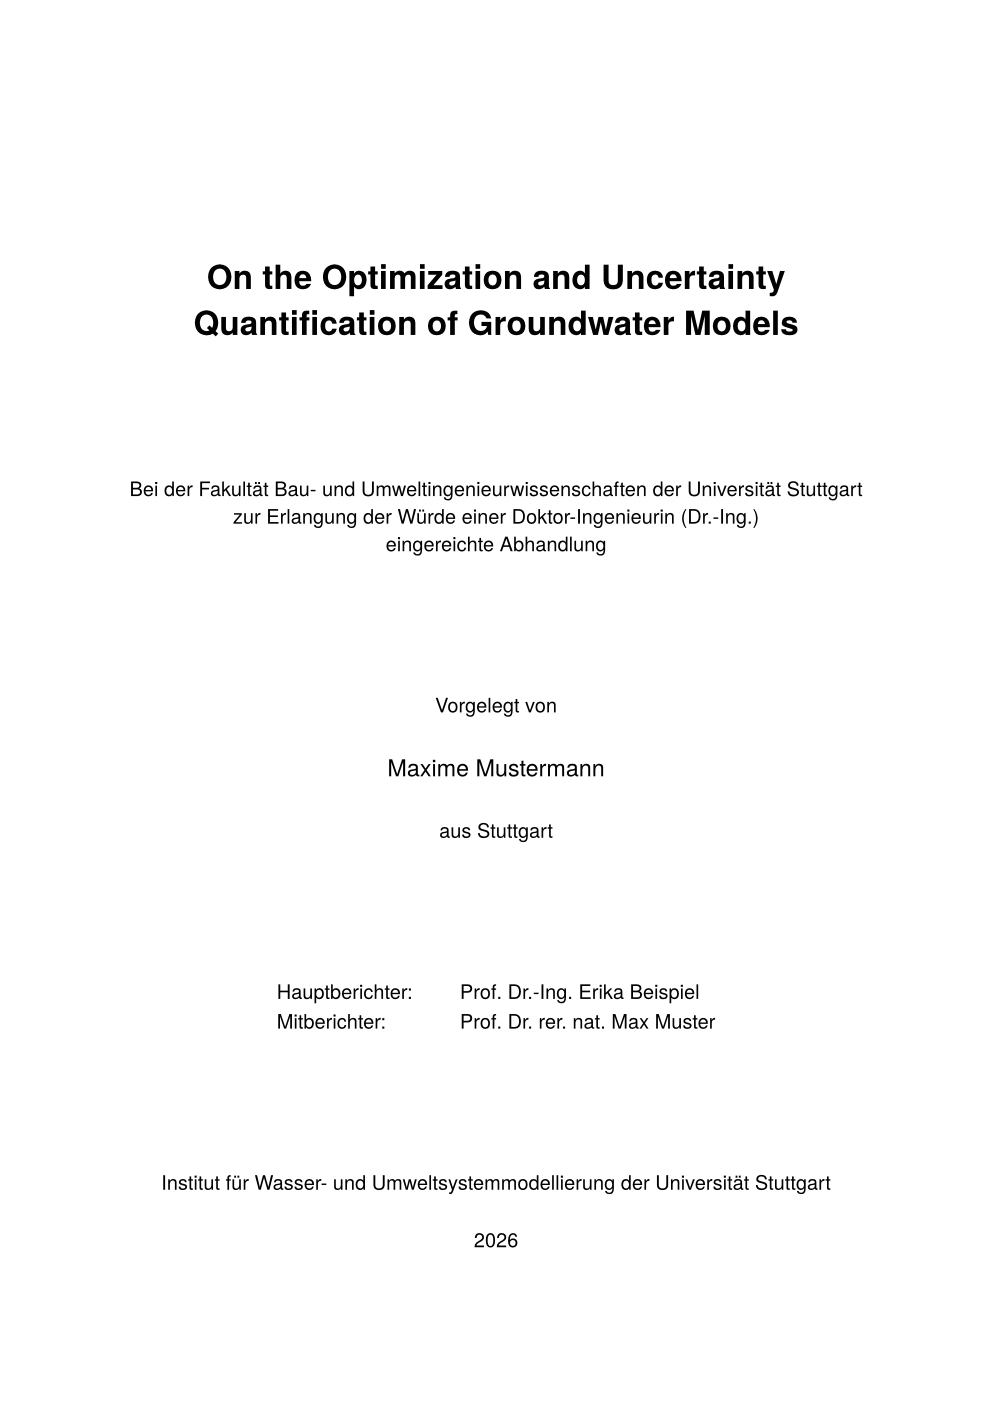
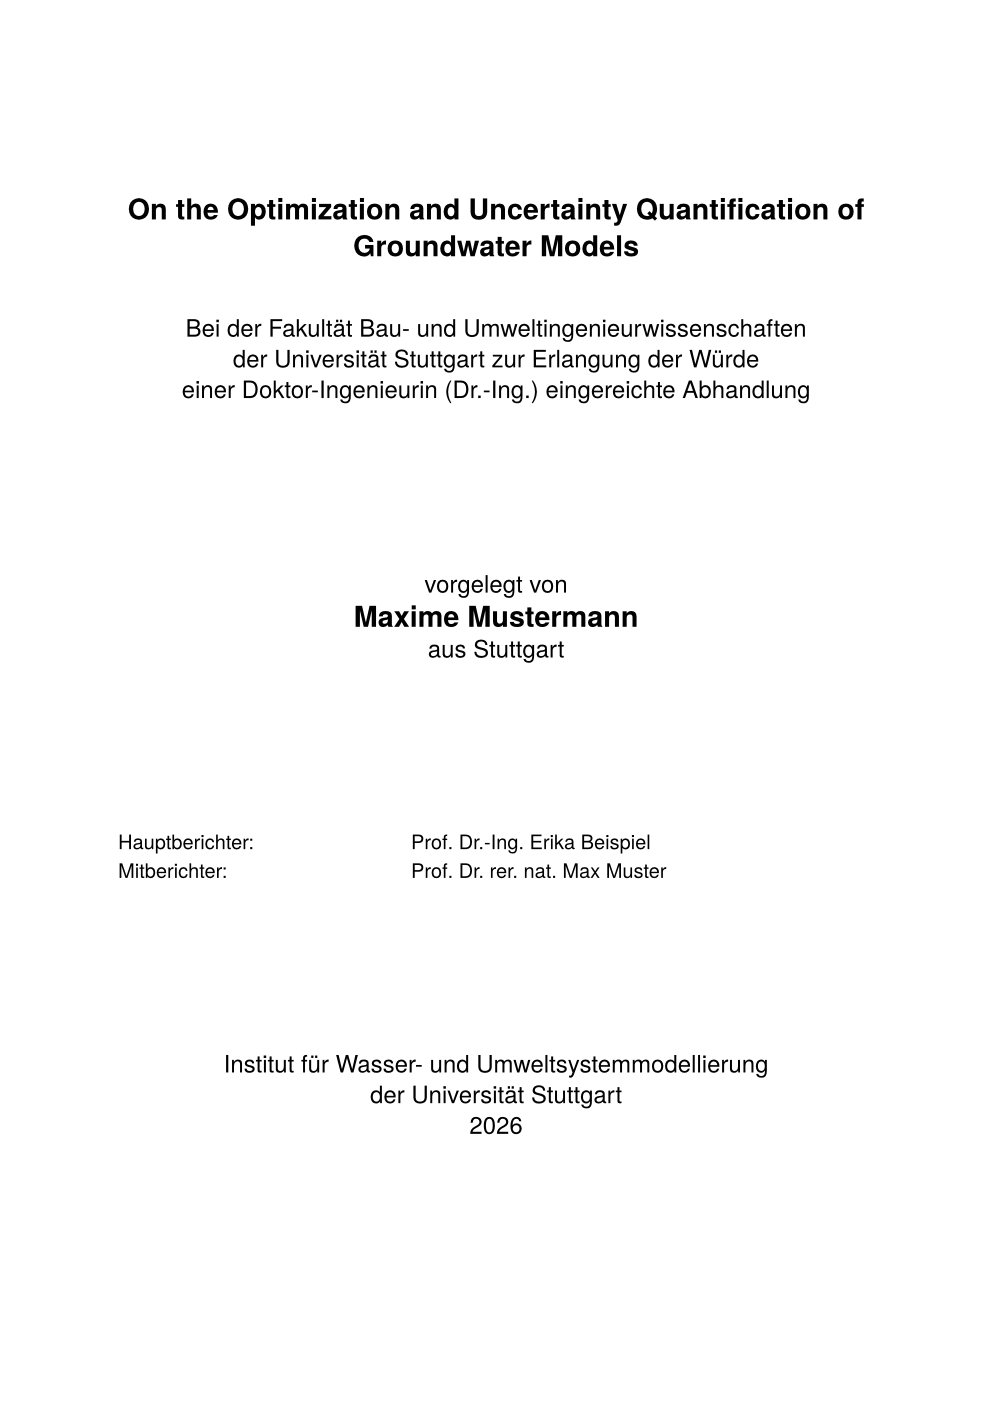
feat(dissertation): match the page layout of the IWS Hefte
Port of the private commit b0bca67. A4 text block, line spacing, and
heading sizes as in the Hefte, a running header with page number and
section or chapter title, capital Roman numerals in the front matter,
and the title page in the sizes and layout of the Hefte.

diff --git a/dissertation/README.md b/dissertation/README.md
@@ -115,7 +115,7 @@ dissertation carries no license obligations.
 ### 0.1.0
 
 First release on Typst Universe. A4 manuscript and A5 print from one
-source, title page per Anlage 1 of the Promotionsordnung, front matter
-in the order of the IWS Mitteilungshefte, and the VLB/D93 page for the
-printed Heft. Code listings use codly 2.0.0, so the template needs
+source, title page per Anlage 1 of the Promotionsordnung, and the
+VLB/D93 page for the printed Heft. Page layout, running header, title
+page, and front matter order follow the IWS Mitteilungshefte. Code listings use codly 2.0.0, so the template needs
 Typst 0.15.0 or newer.
